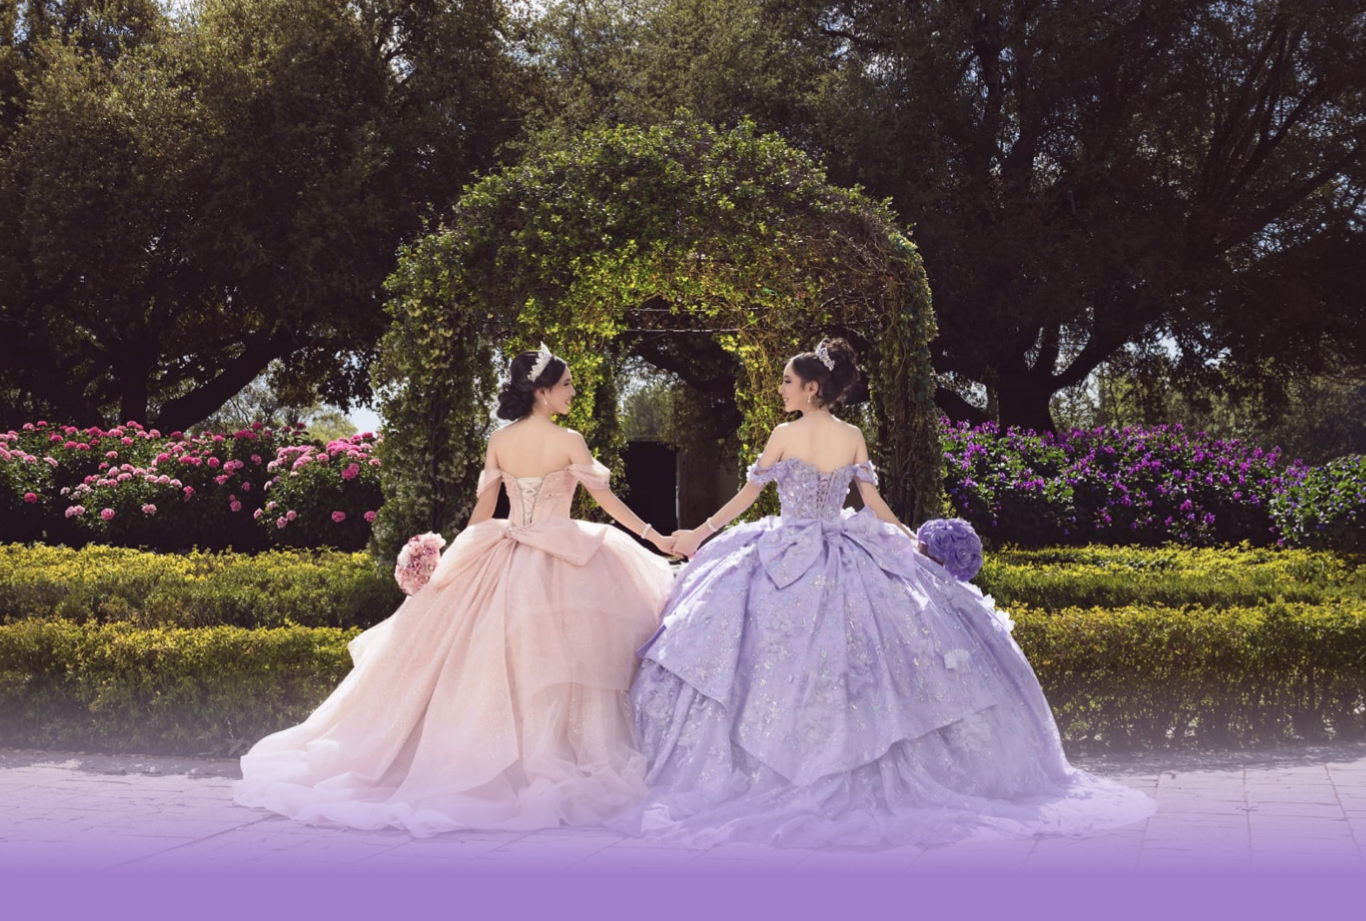
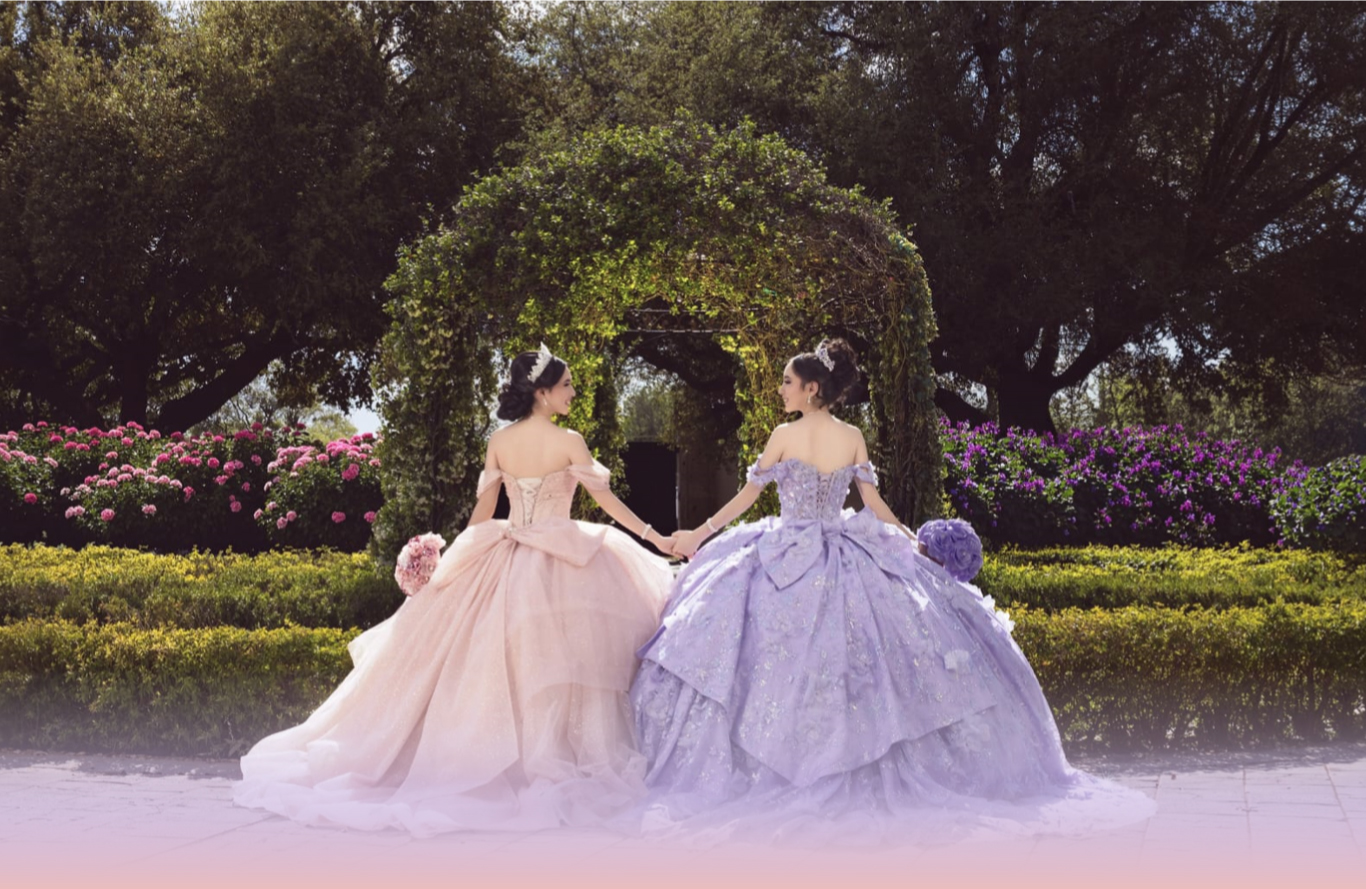
bella

diff --git a/invi_marzo_06/invitacion_xv/Full-web-alexayeva/invitacion.html b/invi_marzo_06/invitacion_xv/Full-web-alexayeva/invitacion.html
@@ -261,14 +261,15 @@
       padding: 0;
       overflow: hidden;
       background: linear-gradient(to bottom,
-          rgba(145, 108, 196, 0.00) 0%,
-          rgba(145, 108, 196, 0.00) 2%,
-          rgba(145, 108, 196, 0.14) 8%,
-          rgba(145, 108, 196, 0.55) 20%,
-          rgba(145, 108, 196, 0.85) 38%,
-          rgba(182, 122, 192, 1.00) 68%,
-          rgba(214, 126, 179, 1.00) 100%);
+          rgba(226, 175, 168, 0.00) 0%,
+          rgba(226, 175, 168, 0.00) 2%,
+          rgba(226, 175, 168, 0.14) 8%,
+          rgba(226, 175, 168, 0.55) 20%,
+          rgba(226, 175, 168, 0.85) 38%,
+          rgba(226, 175, 168, 1.00) 68%,
+          rgba(182, 122, 192, 1.00) 100%);
     }
+	  
 
     .hero-full img {
       width: 100%;
@@ -1423,7 +1424,7 @@ Eva</div>
           <br><br>
         </p>
 
-       <div align="center"> <a class="btn-insta" href="https://wa.me/528991223378" target="_blank" rel="noopener noreferrer">Confirmar por
+       <div align="center"> <a class="btn-ubicacion" href="https://wa.me/528991223378" target="_blank" rel="noopener">Confirmar por
 		   WhatsApp </a></div>
        
 
